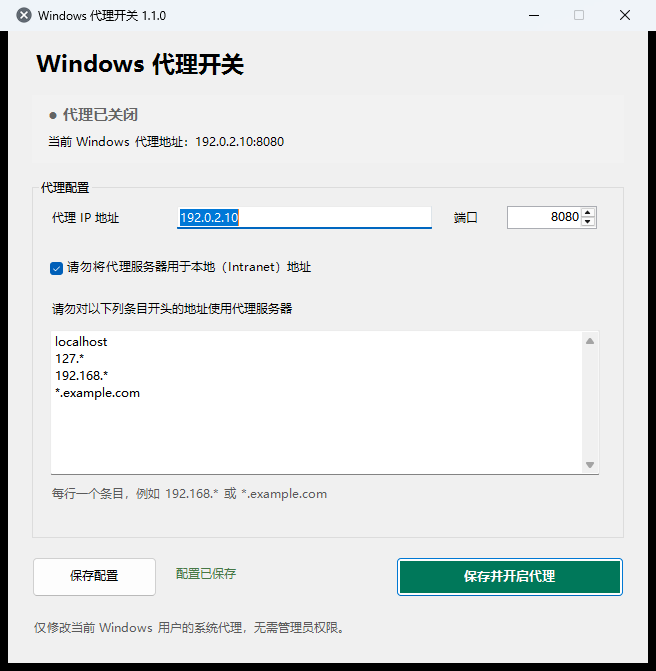
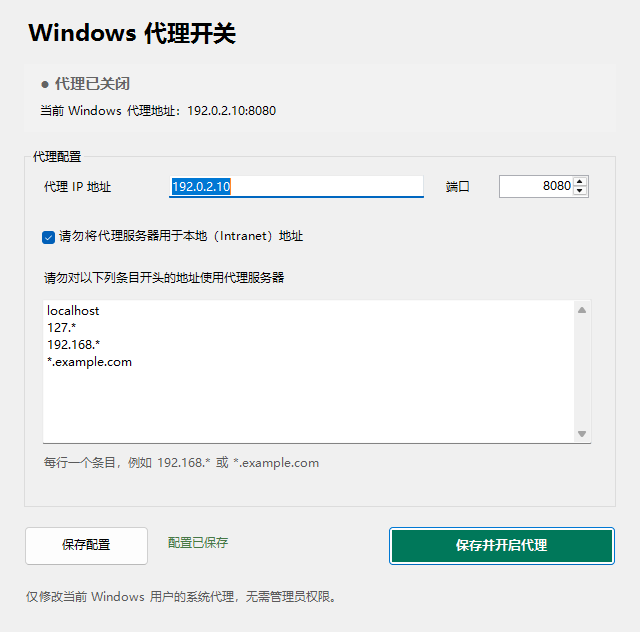
fix

diff --git a/项目记忆.md b/项目记忆.md
@@ -17,7 +17,7 @@
 - `launcher/ProxySwitchLauncher.cs`：内嵌资源解包及 PowerShell 子进程管理；支持自定义实例标识和冒烟参数。默认源码与 EXE 使用相同实例名称，同一会话中不会作为两个默认实例同时运行。
 - `tools/build_launcher.ps1`：调用系统 .NET Framework C# 编译器，优先 Framework64、其次 Framework，生成 `release/Start-ProxySwitch.exe`；不会运行测试。
 - `tools/generate_icons.py`：正式图标维护工具，依赖 Python 与 Pillow，仅资源生成需要这些依赖，普通运行无需 Python。`assets/` 保存应用及状态图标。
-- `tools/capture_screenshot.ps1`：使用临时脚本副本、示例配置和模拟读取状态生成 `docs/images/main-window.png`。其状态模拟不隔离写操作，不应在截图实例中手动切换代理或选择托盘退出。
+- `tools/capture_screenshot.ps1`：使用临时脚本副本、示例配置和模拟读取状态生成 `docs/images/main-window.png`，通过客户区尺寸及客户区捕获标志排除系统标题栏和外边框。其状态模拟不隔离写操作，不应在截图实例中手动切换代理或选择托盘退出。
 - `tests/ProxySwitch.Core.Tests.ps1`：配置校验、格式化与读写检查；`tests/ProxySwitch.Exit.Tests.ps1`：替换代理函数后检查正常退出调用次序；`tests/ProxySwitch.Window.Tests.ps1`：关闭/最小化隐藏检查；`tests/ProxySwitch.Launcher.Tests.ps1`：现有 EXE 的隐藏控制台、最小化及重复启动检查。这些是自定义 PowerShell 脚本，不是 Pester 测试套件。
 - `README.md`：用户介绍、操作说明、交付与隐私说明；`VERSION`：显示版本；`config.example.json`：示例配置。真实 `config.json` 不作为记忆或审核资料复制。
 
@@ -32,4 +32,5 @@
 - 窗口与退出测试使用独立事件名和互斥量，避免干扰默认实例；窗口使用示例配置。现有检查覆盖目标文件锁定时的保存失败保护和模拟退出失败路径，但未覆盖真实写入中断、注册表部分失败及回滚失败。
 - 当前 `.gitignore` 忽略根目录真实配置、`release/`、`tests/`、`.release-updater/`、日志、部分临时文件和 `AGENTS.md`；但现有测试、示例配置及发布 EXE 已被 Git 跟踪。忽略不取消已有跟踪，和本地专用资料约定的差异需另行取得授权处理，不自动删除或取消跟踪。
 - 一次性工具须遵循通用记忆中的忽略目录要求；当前规则没有明确忽略 `tmp/`、`temp/` 或 `scratch/`，使用这些目录前需确认忽略生效。正式构建与资源工具不属于一次性脚本。
+- README 首张软件截图紧接标题和一句话介绍，先于版本及详细介绍，便于用户尽早看到界面；软件截图仅展示客户区，不包含系统窗口标题栏，依据用户展示要求。
 - 示例、截图和记忆必须脱敏，不写入真实代理信息或本机个人路径。截图工具使用示例数据不等于已有图片已完成隐私核验；本次未检查图片内容。

diff --git a/README.md b/README.md
@@ -2,6 +2,10 @@
 
 **一次保存代理配置，以后随时一键开启或关闭。**
 
+![Windows 代理开关主界面](docs/images/main-window.png)
+
+截图中的地址仅为文档示例，不是可用的代理节点。
+
 当前版本：v2026.11.13（2026-11-16）
 
 如果你经常需要在“使用代理”和“关闭代理”之间切换，这个小工具可以帮你省去反复打开 Windows 设置、寻找代理页面、重新填写地址和端口的麻烦。
@@ -21,12 +25,6 @@
 | 不希望软件一直占用任务栏空间 | 最小化或关闭窗口后，软件会隐藏到托盘继续运行。 |
 | 担心退出软件后代理仍然开启 | 从托盘选择“退出”时，会先关闭代理，再退出软件。 |
 | 不熟悉命令行，也不想安装复杂环境 | 提供中文图形界面，无需输入命令，无需管理员权限。 |
-
-## 软件界面
-
-![Windows 代理开关主界面](docs/images/main-window.png)
-
-截图中的地址仅为文档示例，不是可用的代理节点。
 
 ## 开始使用
 
